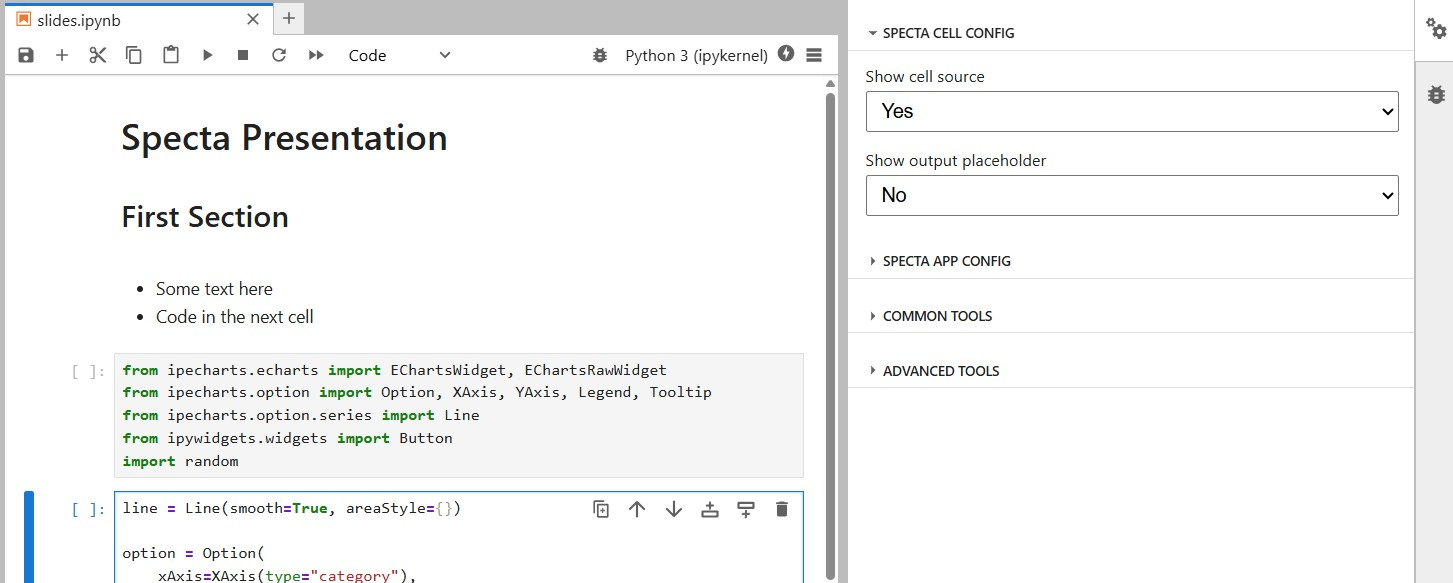
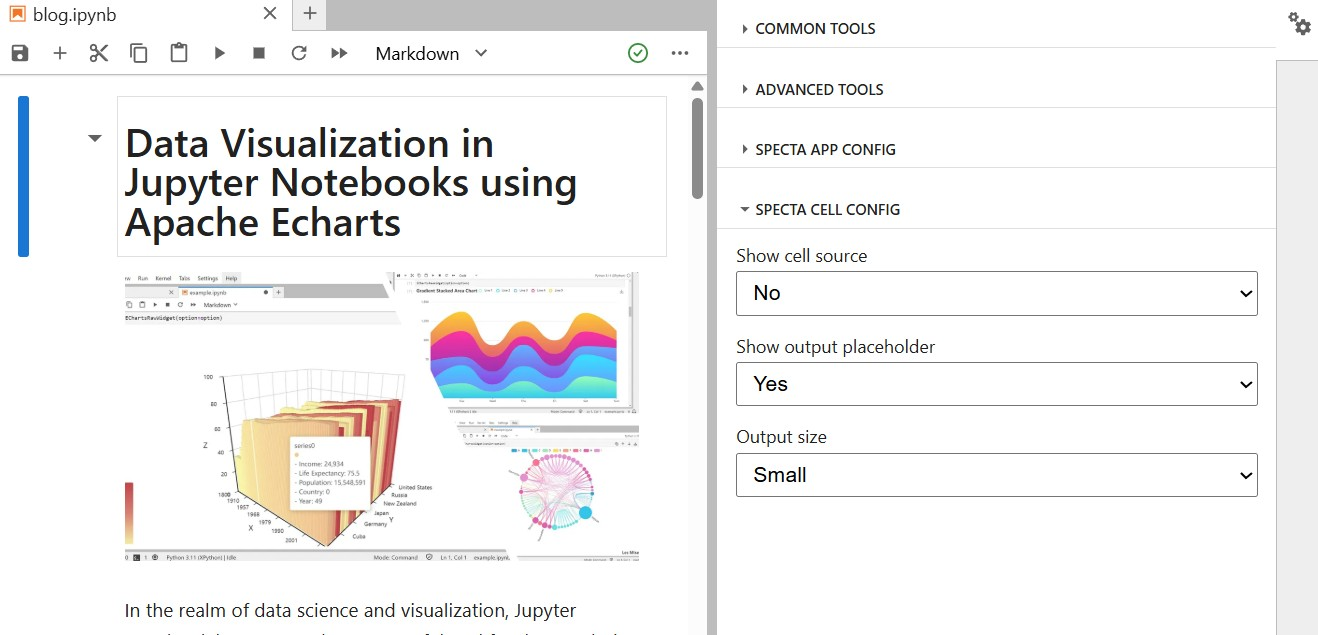
add output size option (#26)

diff --git a/style/article.css b/style/article.css
@@ -23,12 +23,15 @@
   }
 
   .specta-article-outputs-panel {
-    max-width: 680px;
-    width: 100%;
     font-size: 1rem;
     line-height: 1.6;
+    width: 100%;
   }
 
+  .specta-cell-output {
+    max-width: 680px;
+    margin: auto;
+  }
   .specta-article-outputs-panel {
     .jp-MarkdownOutput {
       padding-left: 0px !important;
@@ -194,7 +197,7 @@
     margin-top: 40px !important;
   }
 
-  .jp-CodeCell + .jp-OutputArea > .jp-OutputArea-child {
+  .jp-OutputArea > .jp-OutputArea-child:first-child {
     margin-top: 40px !important;
   }
   .jp-InputArea-editor {
@@ -307,8 +310,32 @@
       margin-top: 56px !important;
     }
 
-    .jp-CodeCell + .jp-OutputArea > .jp-OutputArea-child {
+    .jp-OutputArea > .jp-OutputArea-child:first-child {
       margin-top: 56px !important;
+    }
+
+    .specta-cell-output-big {
+      max-width: 1192px;
+    }
+    .specta-cell-output-big .jp-Cell {
+      max-width: 680px;
+      margin: auto;
+    }
+    .specta-cell-output-big .jp-Cell.jp-MarkdownCell {
+      max-width: 1192px;
+      margin: auto;
+    }
+
+    .specta-cell-output-full {
+      max-width: 100%;
+    }
+    .specta-cell-output-full .jp-Cell {
+      max-width: 680px;
+      margin: auto;
+    }
+    .specta-cell-output-full .jp-Cell.jp-MarkdownCell {
+      max-width: 100%;
+      margin: auto;
     }
   }
 }

diff --git a/src/specta_cell_output.tsx b/src/specta_cell_output.tsx
@@ -25,10 +25,16 @@ export class SpectaCellOutput extends Panel {
     cellConfig: Required<ISpectaCellConfig>;
   }) {
     super();
+    const { showOutput, outputSize } = cellConfig;
     this.removeClass('lm-Widget');
     this.removeClass('p-Widget');
     this.addClass('specta-cell-output');
 
+    if (outputSize === 'Big') {
+      this.addClass('specta-cell-output-big');
+    } else if (outputSize === 'Full') {
+      this.addClass('specta-cell-output-full');
+    }
     const content = new Panel();
     content.addClass('specta-cell-content');
 
@@ -42,7 +48,7 @@ export class SpectaCellOutput extends Panel {
     this.cellIdentity = cellIdentity;
     this._info = info ?? {};
     if (info.cellModel?.cell_type === 'code') {
-      if (cellConfig.showOutput) {
+      if (showOutput) {
         this._placeholder = ReactWidget.create(<RandomSkeleton />);
         this._placeholder.addClass('specta-cell-placeholder');
         this.addWidget(this._placeholder);

diff --git a/src/tool.ts b/src/tool.ts
@@ -191,7 +191,8 @@ export function readCellConfig(cell?: ICell): Required<ISpectaCellConfig> {
   const metaData = (cell?.metadata?.specta ?? {}) as any;
   const spectaCellConfig: Required<ISpectaCellConfig> = {
     showSource: false,
-    showOutput: true
+    showOutput: true,
+    outputSize: 'Small'
   };
 
   if (metaData.showSource && metaData.showSource === 'Yes') {
@@ -200,6 +201,10 @@ export function readCellConfig(cell?: ICell): Required<ISpectaCellConfig> {
 
   if (metaData.showOutput && metaData.showOutput === 'No') {
     spectaCellConfig.showOutput = false;
+  }
+
+  if (metaData.outputSize) {
+    spectaCellConfig.outputSize = metaData.outputSize;
   }
 
   return spectaCellConfig;

diff --git a/src/token.ts b/src/token.ts
@@ -61,6 +61,7 @@ export interface ISpectaAppConfig {
 export interface ISpectaCellConfig {
   showSource?: boolean;
   showOutput?: boolean;
+  outputSize?: 'Small' | 'Big' | 'Full';
 }
 export const ISpectaLayoutRegistry = new Token<ISpectaLayoutRegistry>(
   'specta:ISpectaLayoutRegistry'

diff --git a/README.md b/README.md
@@ -115,10 +115,11 @@ By default, when you open a notebook in Specta, all code cells are hidden, and p
 
 ![Cell toolbar](./docs/images/specta-config.jpg)
 
-By opening the `Property Inspector` panel of JupyterLab and selecting the `Specta Cell Config` section, you can change the visibility of each cell as follows:
+By opening the `Property Inspector` panel of JupyterLab and selecting the `Specta Cell Config` section, you can change the display of each cell as follows:
 
 - `Show cell source`: use this toggle to show or hide the cell source code. Default to `false`
 - `Show output placeholder`: use this toggle to show or hide the output skeleton. Default to `true`
+- `Output size`: use this dropdown to select the size of the cell output. Default to `Small`
 
 ### Slides layout configuration
 
